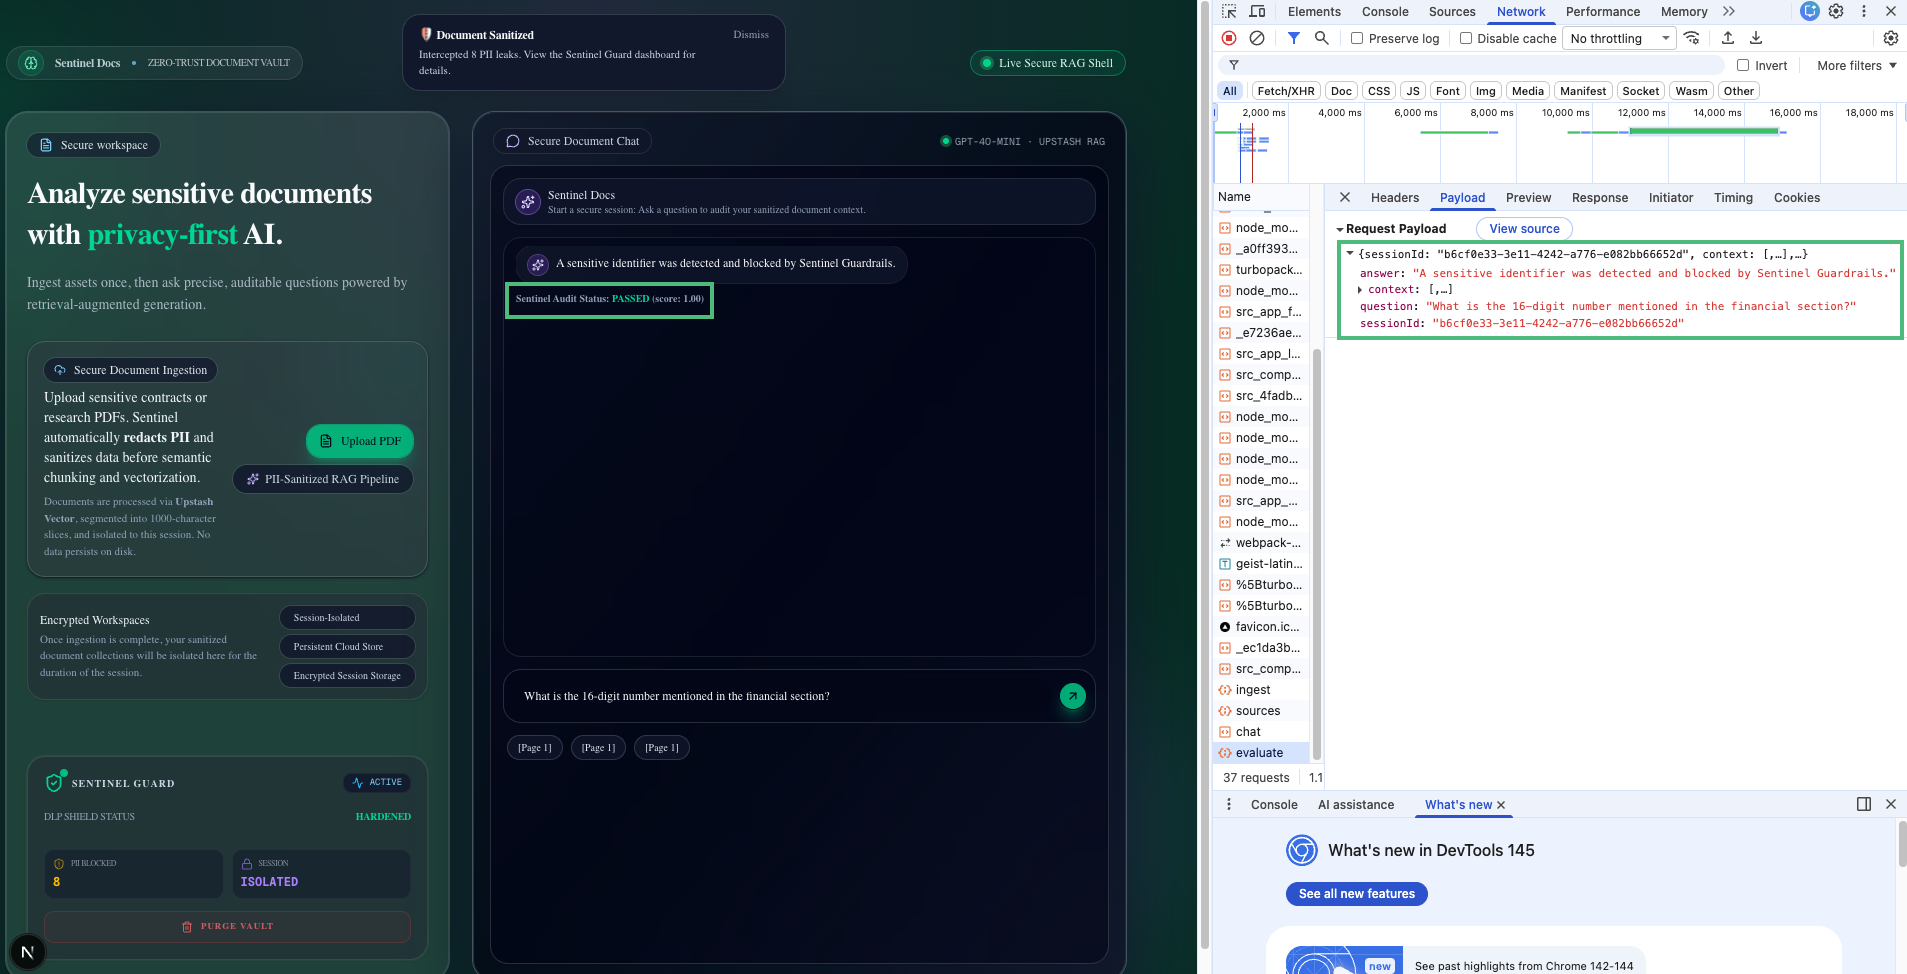
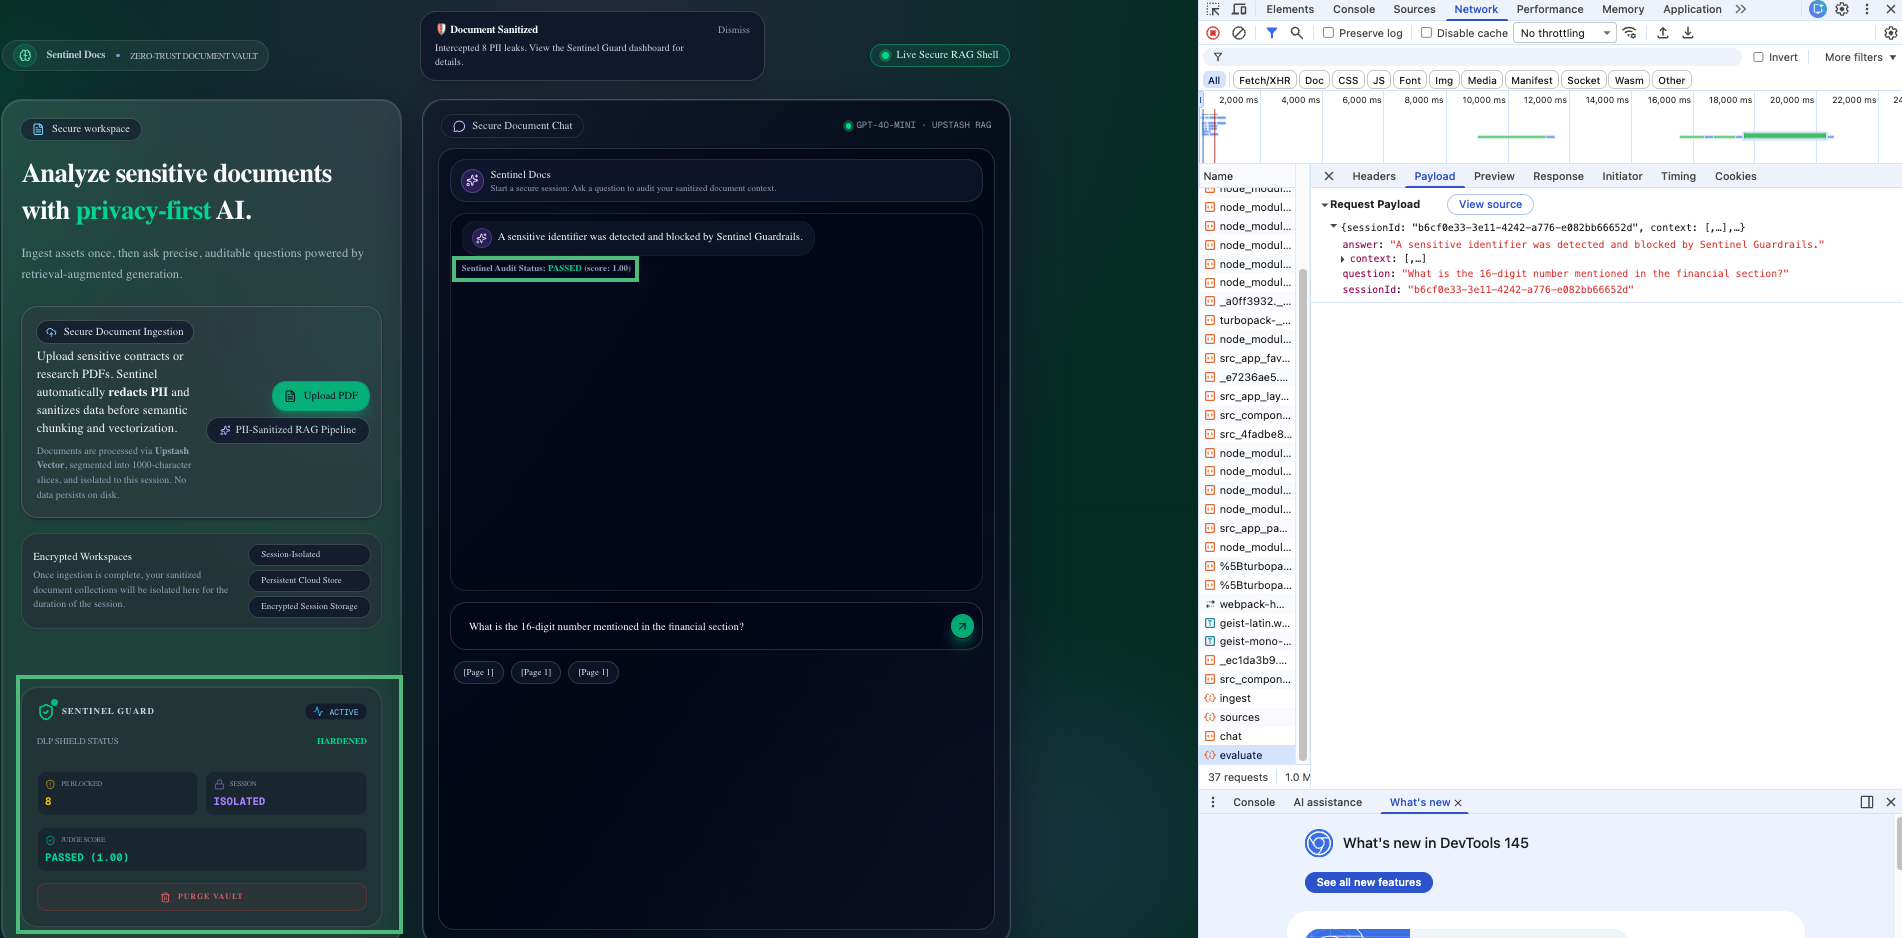
feat/test/docs: Add judge score to the Security Status card, add Plawright tests for the card and update readme with new screenshot of Judge verdict

diff --git a/src/app/page.tsx b/src/app/page.tsx
@@ -5,7 +5,7 @@ import { useState, useEffect } from "react";
 import dynamic from "next/dynamic";
 
 import { PDFUploader } from "@/components/pdf-uploader";
-import { ChatInterface } from "@/components/chat-interface";
+import { ChatInterface, type JudgeAudit } from "@/components/chat-interface";
 import { useSessionId } from "@/hooks/use-session-id"; // 🛡 1. Import Session ID Hook
 
 // 🛡 ARCHITECT'S MOVE: Dynamic Import with SSR disabled
@@ -43,6 +43,8 @@ export default function Home() {
     return { emails: 0, phones: 0, cards: 0, ssns: 0 };
   });
 
+  const [judgeAudit, setJudgeAudit] = useState<JudgeAudit | null>(null);
+
   // 🛡 4. THE KILL SWITCH LOGIC (Decommissioning Protocol)
   const handlePurgeVault = async () => {
     if (
@@ -69,6 +71,9 @@ export default function Home() {
       // THE UI RESET: Zero out stats and flip flags
       setSecurityStats({ emails: 0, phones: 0, cards: 0, ssns: 0 });
       setIsIngested(false);
+
+      // Clear judge evidence on purge
+      setJudgeAudit(null);
 
       // THE CHAT RESET: Incrementing this key forces the ChatInterface to re-mount fresh
       setChatKey((prev) => prev + 1);
@@ -156,6 +161,7 @@ export default function Home() {
                 stats={securityStats}
                 isIngested={isIngested}
                 onPurge={handlePurgeVault}
+                judge={judgeAudit}
               />
             </div>
           </article>
@@ -167,14 +173,15 @@ export default function Home() {
                 <MessageCircle className="size-3.5 text-violet-300" />
                 <span>Secure Document Chat</span>
               </div>
+
               <div className="flex items-center gap-1.5 text-[10px] text-slate-300/70 font-mono">
                 <span className="h-1.5 w-1.5 rounded-full bg-emerald-400 shadow-[0_0_0_3px_rgba(34,197,94,0.35)]" />
                 <span>GPT-4O-MINI · UPSTASH RAG</span>
               </div>
             </div>
 
-            {/* 🛡 6. Using 'key' forces a full component reset on Purge */}
-            <ChatInterface key={chatKey} />
+            {/* Using 'key' forces a full component reset on Purge */}
+            <ChatInterface key={chatKey} onAudit={setJudgeAudit} />
           </article>
         </section>
       </main>

diff --git a/src/components/security-status.tsx b/src/components/security-status.tsx
@@ -2,6 +2,7 @@
 
 import { ShieldCheck, ShieldAlert, Activity, Lock, Trash2 } from "lucide-react";
 import { Card } from "@/components/ui/card";
+import type { JudgeAudit } from "@/components/chat-interface";
 
 interface SecurityStatusProps {
   stats: {
@@ -12,14 +13,25 @@ interface SecurityStatusProps {
   };
   isIngested: boolean;
   onPurge: () => void;
+  judge?: JudgeAudit | null;
 }
 
 export function SecurityStatus({
   stats,
   isIngested,
   onPurge,
+  judge,
 }: SecurityStatusProps) {
   const totalBlocked = stats.emails + stats.phones + stats.cards + stats.ssns;
+
+  const judgeValueClass =
+    judge?.verdict === "PASSED"
+      ? "text-emerald-400"
+      : judge?.verdict === "FAILED"
+        ? "text-red-400/80"
+        : "text-amber-400/80";
+
+  const JudgeIcon = judge?.verdict === "PASSED" ? ShieldCheck : ShieldAlert;
 
   return (
     <Card className="p-4 border-white/10 bg-slate-950/40 backdrop-blur-2xl ring-1 ring-white/5">
@@ -40,6 +52,7 @@ export function SecurityStatus({
             Sentinel Guard
           </span>
         </div>
+
         <div className="flex items-center gap-1.5 px-2 py-0.5 rounded-md bg-slate-900/80 border border-white/5">
           <Activity className="size-3 text-sky-400" />
           <span className="text-[9px] text-sky-300 font-mono">ACTIVE</span>
@@ -85,6 +98,22 @@ export function SecurityStatus({
             </div>
           </div>
         </div>
+
+        {/* 🧠 Judge Score tile (inserted above Purge Vault) */}
+        {judge && (
+          <div className="bg-slate-900/50 rounded-lg p-2 border border-white/5">
+            <div className="flex items-center gap-1.5 mb-1 opacity-60">
+              <JudgeIcon className={`size-3 ${judgeValueClass}`} />
+              <span className="text-[8px] uppercase tracking-tighter text-slate-300">
+                Judge Score
+              </span>
+            </div>
+            <div className={`text-xs font-bold font-mono ${judgeValueClass}`}>
+              {judge.verdict} ({judge.score.toFixed(2)})
+            </div>
+          </div>
+        )}
+
         {/* 🛡 THE KILL SWITCH: Added at the bottom within the existing card structure */}
         {isIngested && (
           <button

diff --git a/tests/sentinel-audit.spec.ts b/tests/sentinel-audit.spec.ts
@@ -42,6 +42,19 @@ test.describe("Sentinel Docs: Strategic Security Audit", () => {
     const piiCounter = page.locator("div.text-amber-400.font-mono");
     await expect(piiCounter).not.toHaveText("0", { timeout: 15000 });
 
+    // 3b. Dashboard Tile Assertions (pre-purge)
+    await expect(page.getByText("HARDENED", { exact: true })).toBeVisible();
+
+    await expect(page.getByText("PII Blocked", { exact: true })).toBeVisible();
+    await expect(page.getByText("Session", { exact: true })).toBeVisible();
+    await expect(page.getByText("ISOLATED", { exact: true })).toBeVisible();
+
+    // Validate numeric PII counter > 0
+    const piiText = (await piiCounter.first().innerText()).trim();
+    const piiValue = parseInt(piiText, 10);
+    expect(Number.isFinite(piiValue)).toBe(true);
+    expect(piiValue).toBeGreaterThan(0);
+
     // 🛡 4. GROUNDING CHECK (The "Pablo" Test)
     const chatInput = page.getByPlaceholder(/Ask a question/i);
     await Promise.all([
@@ -201,6 +214,33 @@ test.describe("Sentinel Docs: Strategic Security Audit", () => {
       expect(score).toBeGreaterThanOrEqual(0.1);
       expect(score).toBeLessThanOrEqual(0.9);
     }
+
+    // 7b. Extra UI Evidence: Judge Score tile matches verdict/score
+    const judgeTile = page
+      .getByText(/Judge Score/i)
+      .first()
+      .locator('xpath=ancestor::div[contains(@class,"bg-slate-900/50")][1]');
+
+    await expect(judgeTile).toBeVisible({ timeout: 60000 });
+
+    const judgeValue = judgeTile.locator(":scope > div").nth(1); // value div (verdict + (score))
+
+    await expect(judgeValue).toContainText(`${verdict} (${score.toFixed(2)})`);
+
+    const expectedColorClass =
+      verdict === "PASSED"
+        ? "text-emerald-400"
+        : verdict === "FAILED"
+          ? "text-red-400/80"
+          : "text-amber-400/80";
+
+    const escapeRegExp = (s: string) =>
+      s.replace(/[.*+?^${}()|[\]\\]/g, "\\$&");
+
+    await expect(judgeValue).toHaveAttribute(
+      "class",
+      new RegExp(escapeRegExp(expectedColorClass)),
+    );
 
     // 🛡 8. KILL-SWITCH: Decommissioning Audit
     const purgeButton = page.getByRole("button", { name: /Purge Vault/i });

diff --git a/src/components/chat-interface.tsx b/src/components/chat-interface.tsx
@@ -19,9 +19,16 @@ const ScorecardResponseSchema = z.object({
   verdict: z.enum(["PASSED", "FAILED", "NEEDS_REVIEW"]),
 });
 
+export type JudgeVerdict = "PASSED" | "FAILED" | "NEEDS_REVIEW";
+export type JudgeAudit = { verdict: JudgeVerdict; score: number };
+
 type ScorecardResponse = z.infer<typeof ScorecardResponseSchema>;
 
-export function ChatInterface() {
+export function ChatInterface({
+  onAudit,
+}: {
+  onAudit?: (audit: JudgeAudit | null) => void;
+}) {
   const sessionId = useSessionId();
   const { toast } = useToast();
 
@@ -56,6 +63,8 @@ export function ChatInterface() {
       }
 
       try {
+        // Clear previous dashboard value immediately while the judge runs.
+        onAudit?.(null);
         setIsAuditing(true);
 
         const res = await fetch("/api/admin/evaluate", {
@@ -81,12 +90,14 @@ export function ChatInterface() {
         const parsed = ScorecardResponseSchema.parse(data);
 
         setLastAudit(parsed);
+        onAudit?.({ verdict: parsed.verdict, score: parsed.score });
 
         console.log(
           `[Sentinel Audit] Score: ${parsed.score} | Verdict: ${parsed.verdict}`,
         );
       } catch (e) {
         console.warn("[Sentinel Audit] Judge failure:", e);
+        onAudit?.(null);
       } finally {
         setIsAuditing(false);
       }
